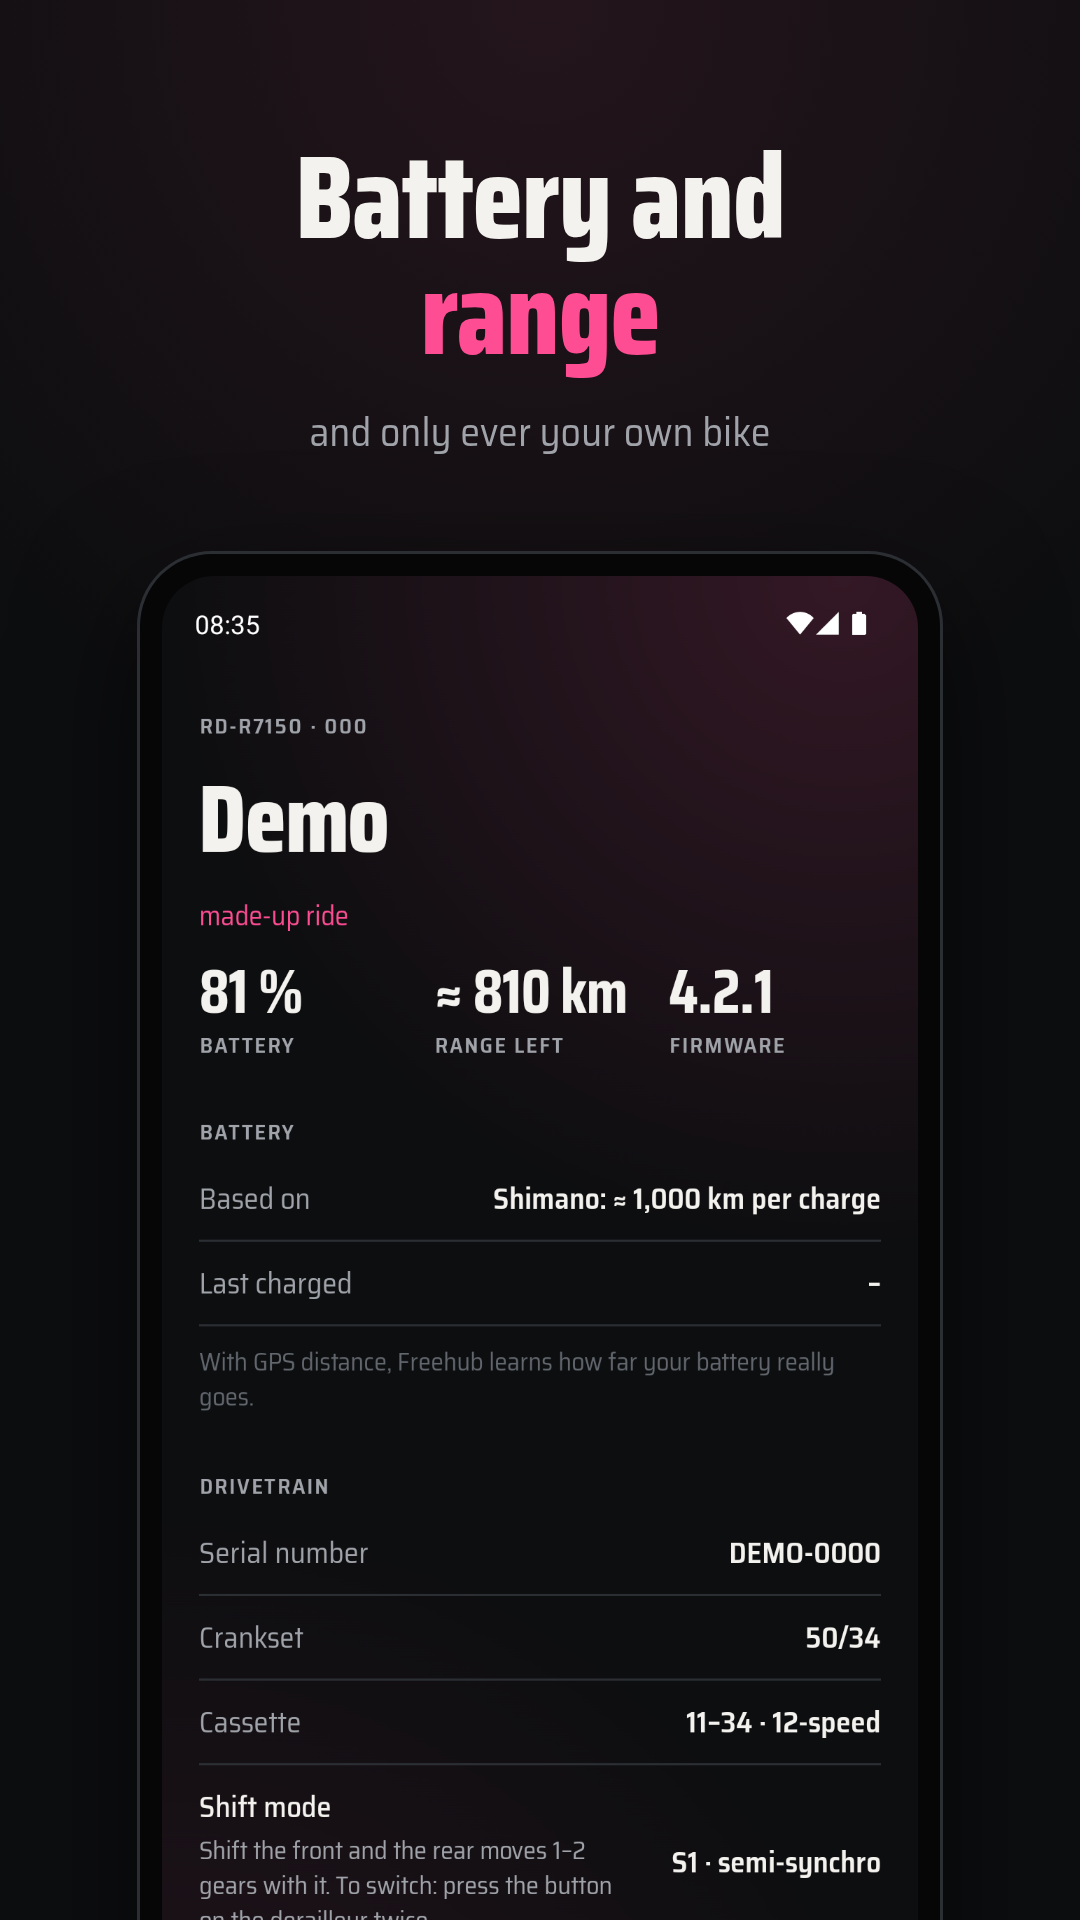
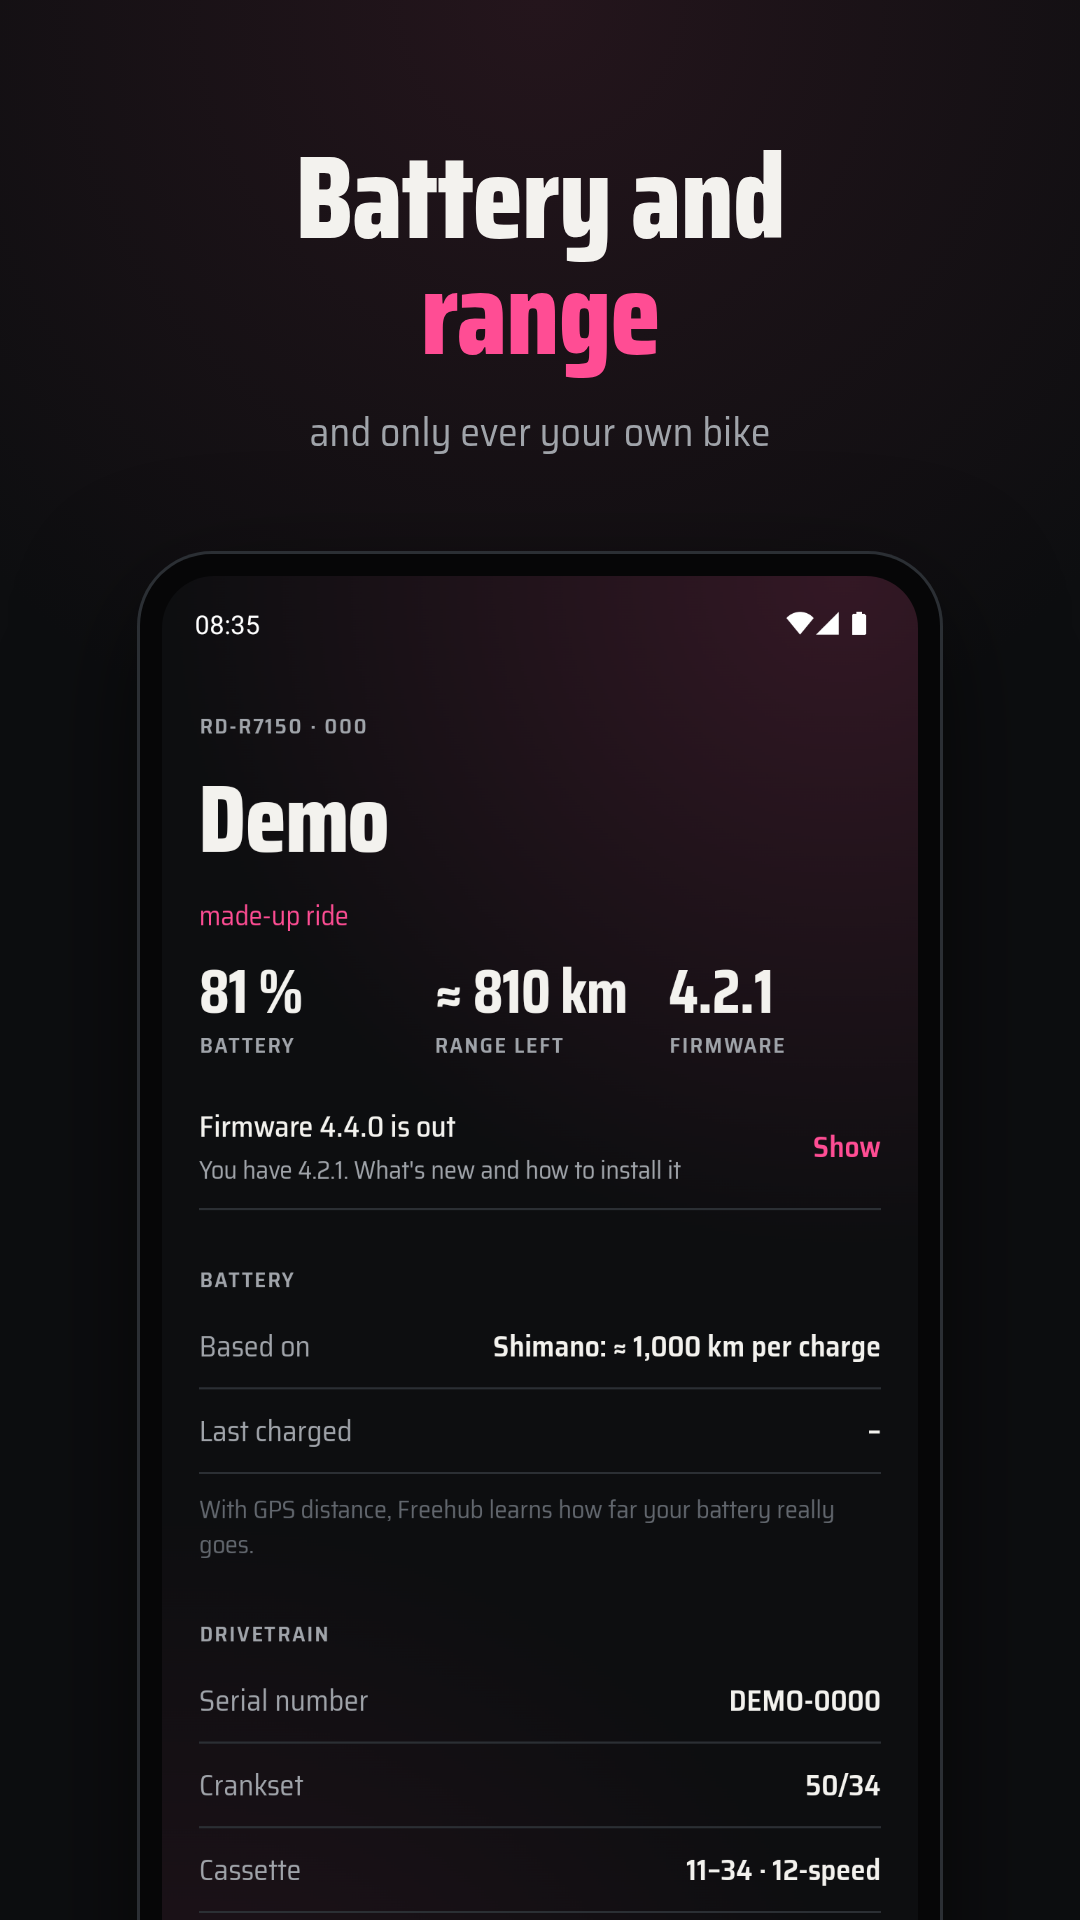
Screenshots for 0.9.0: the firmware row on the Bike tab

diff --git a/docs/de/index.html b/docs/de/index.html
@@ -85,7 +85,7 @@
 
   <section class="band">
     <div class="container split">
-      <img class="screen" src="../bilder/app/bike-de-dark.png" width="1080" height="2400" loading="lazy" alt="Reiter Rad: Akku 81 %, noch etwa 810 km Reichweite, Firmware 4.2.1, Kurbel 50/34, Kassette 11 bis 34">
+      <img class="screen" src="../bilder/app/bike-de-dark.png" width="1080" height="2400" loading="lazy" alt="Reiter Rad: Akku 81 %, noch etwa 810 km Reichweite, Firmware 4.2.1 mit dem Hinweis, dass 4.4.0 da ist, Kurbel 50/34, Kassette 11 bis 34">
       <div>
         <h2>Nur dein Rad.</h2>
         <p>Du koppelst dein Schaltwerk einmal. Danach verbindet sich Freehub nur noch damit, das gleiche Rad daneben bleibt unberührt. Mehrere Räder behalten jeweils ihre eigenen Fahrten, Kilometer und den Akku-Verlauf.</p>

diff --git a/docs/index.html b/docs/index.html
@@ -85,7 +85,7 @@
 
   <section class="band">
     <div class="container split">
-      <img class="screen" src="bilder/app/bike-en-dark.png" width="1080" height="2400" loading="lazy" alt="Bike screen: battery 81 %, about 810 km of range left, firmware 4.2.1, crankset 50/34, cassette 11 to 34">
+      <img class="screen" src="bilder/app/bike-en-dark.png" width="1080" height="2400" loading="lazy" alt="Bike screen: battery 81 %, about 810 km of range left, firmware 4.2.1 with a note that 4.4.0 is out, crankset 50/34, cassette 11 to 34">
       <div>
         <h2>Your bike only.</h2>
         <p>You pair your derailleur once. From then on Freehub connects to that one only, so the same bike leaning next to yours stays untouched. Several bikes each keep their own rides, distance and battery log.</p>

diff --git a/README.md b/README.md
@@ -18,7 +18,7 @@
 
 Shimano's E-TUBE PROJECT app asks you to sign in with a SHIMANO ID before it shows anything. Freehub connects to the rear derailleur over Bluetooth, reads what the derailleur already broadcasts to bike computers, and keeps every number on your phone.
 
-| ![Current gear as 50 × 17 with battery, range left and the bike’s total distance below](docs/bilder/1-live.png) | ![All-time shift count, distance by GPS and a heatmap of gear usage](docs/bilder/2-stats.png) | ![Battery, range left and drivetrain of the bike](docs/bilder/3-bike.png) | ![The shift mode explained with how to switch it, the crankset and cassette stored in the derailleur, and the shift quality: 0 of 2,439 rear shifts sprang back](docs/bilder/4-derailleur.png) |
+| ![Current gear as 50 × 17 with battery, range left and the bike’s total distance below](docs/bilder/1-live.png) | ![All-time shift count, distance by GPS and a heatmap of gear usage](docs/bilder/2-stats.png) | ![Battery, range left, a note that firmware 4.4.0 is out, and the drivetrain of the bike](docs/bilder/3-bike.png) | ![The shift mode explained with how to switch it, the crankset and cassette stored in the derailleur, and the shift quality: 0 of 2,439 rear shifts sprang back](docs/bilder/4-derailleur.png) |
 |---|---|---|---|
 
 ## What it shows
